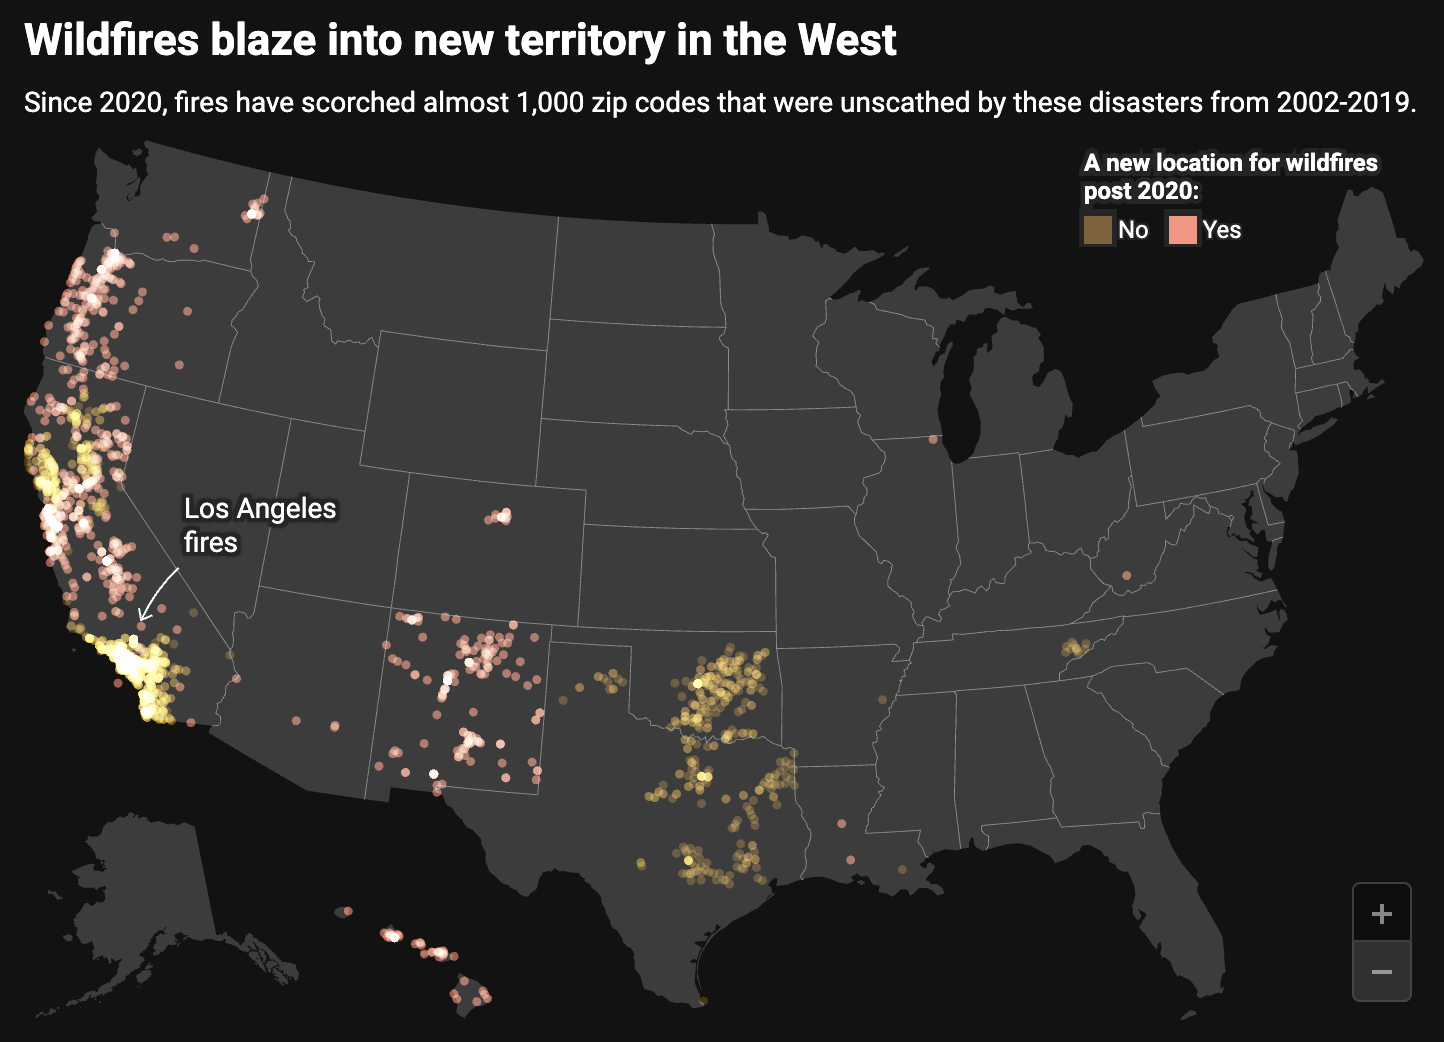
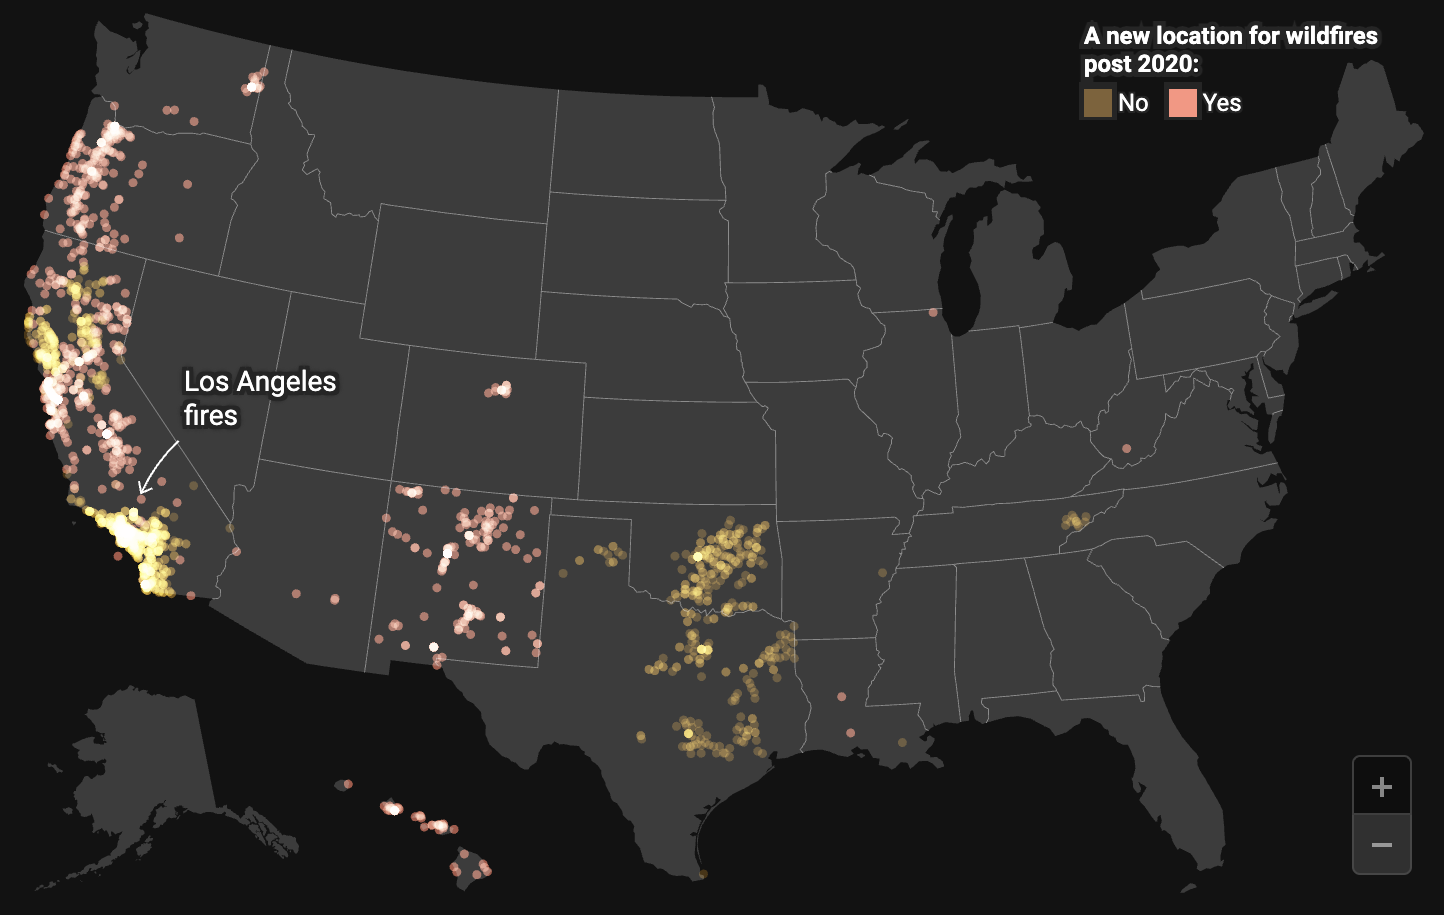
added wildfires project to portfolio website

diff --git a/docs/index.html b/docs/index.html
@@ -269,7 +269,7 @@
                 </div>
                 <div class="column">
                     <div class="card">
-                        <img src="wildfires.png" alt="The American West Faces a Fiery Future">
+                        <img src="wildfires-white.png" alt="The American West Faces a Fiery Future">
                     </div>
                     <div class="project-info">
                         <a href="" target="_blank" class="card-title">The American West Faces a Fiery Future</a>
